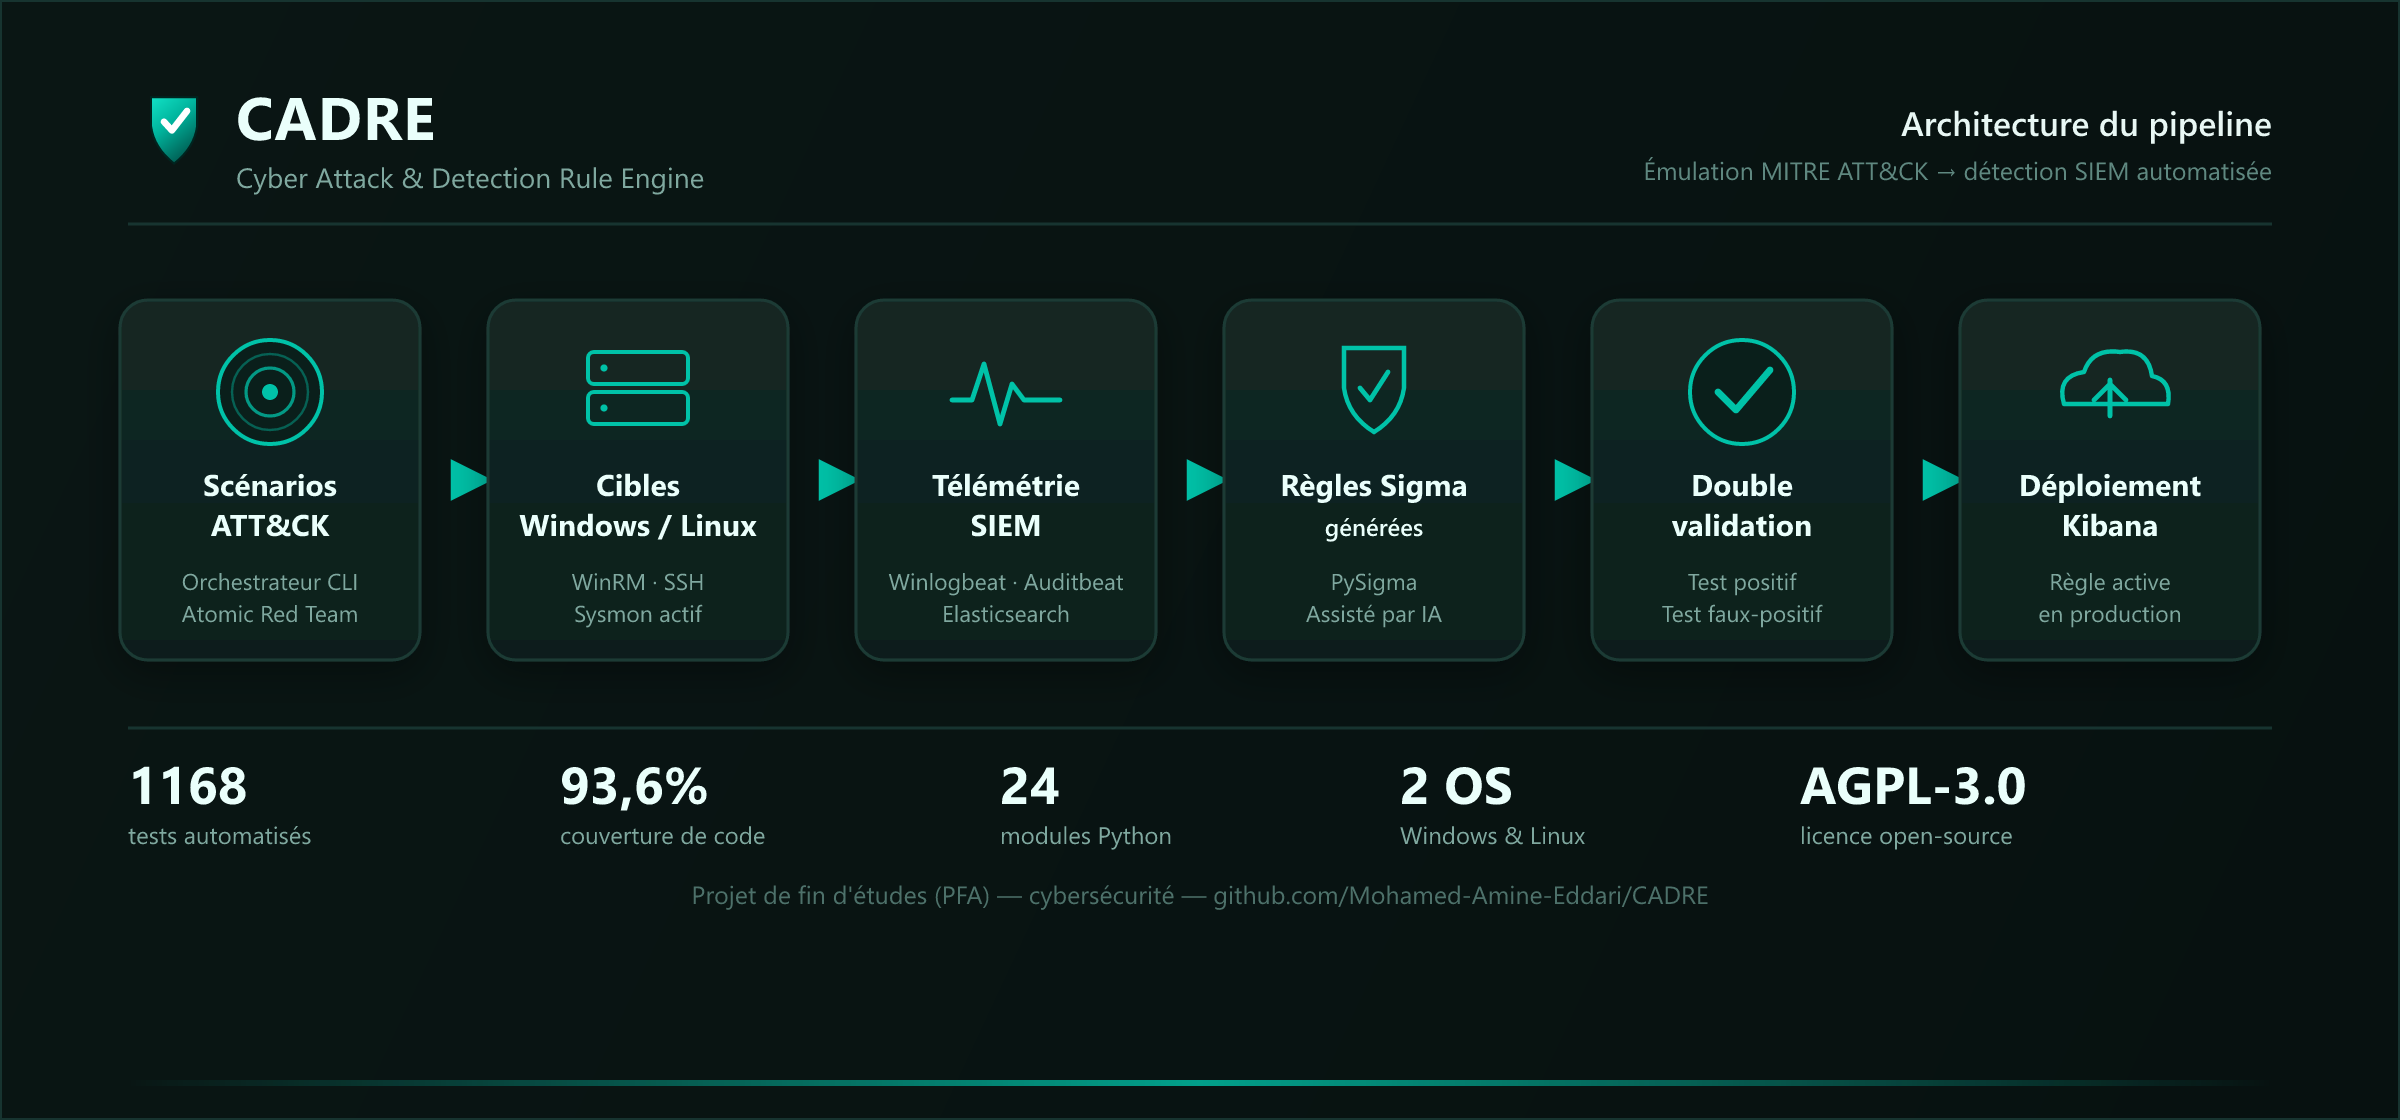
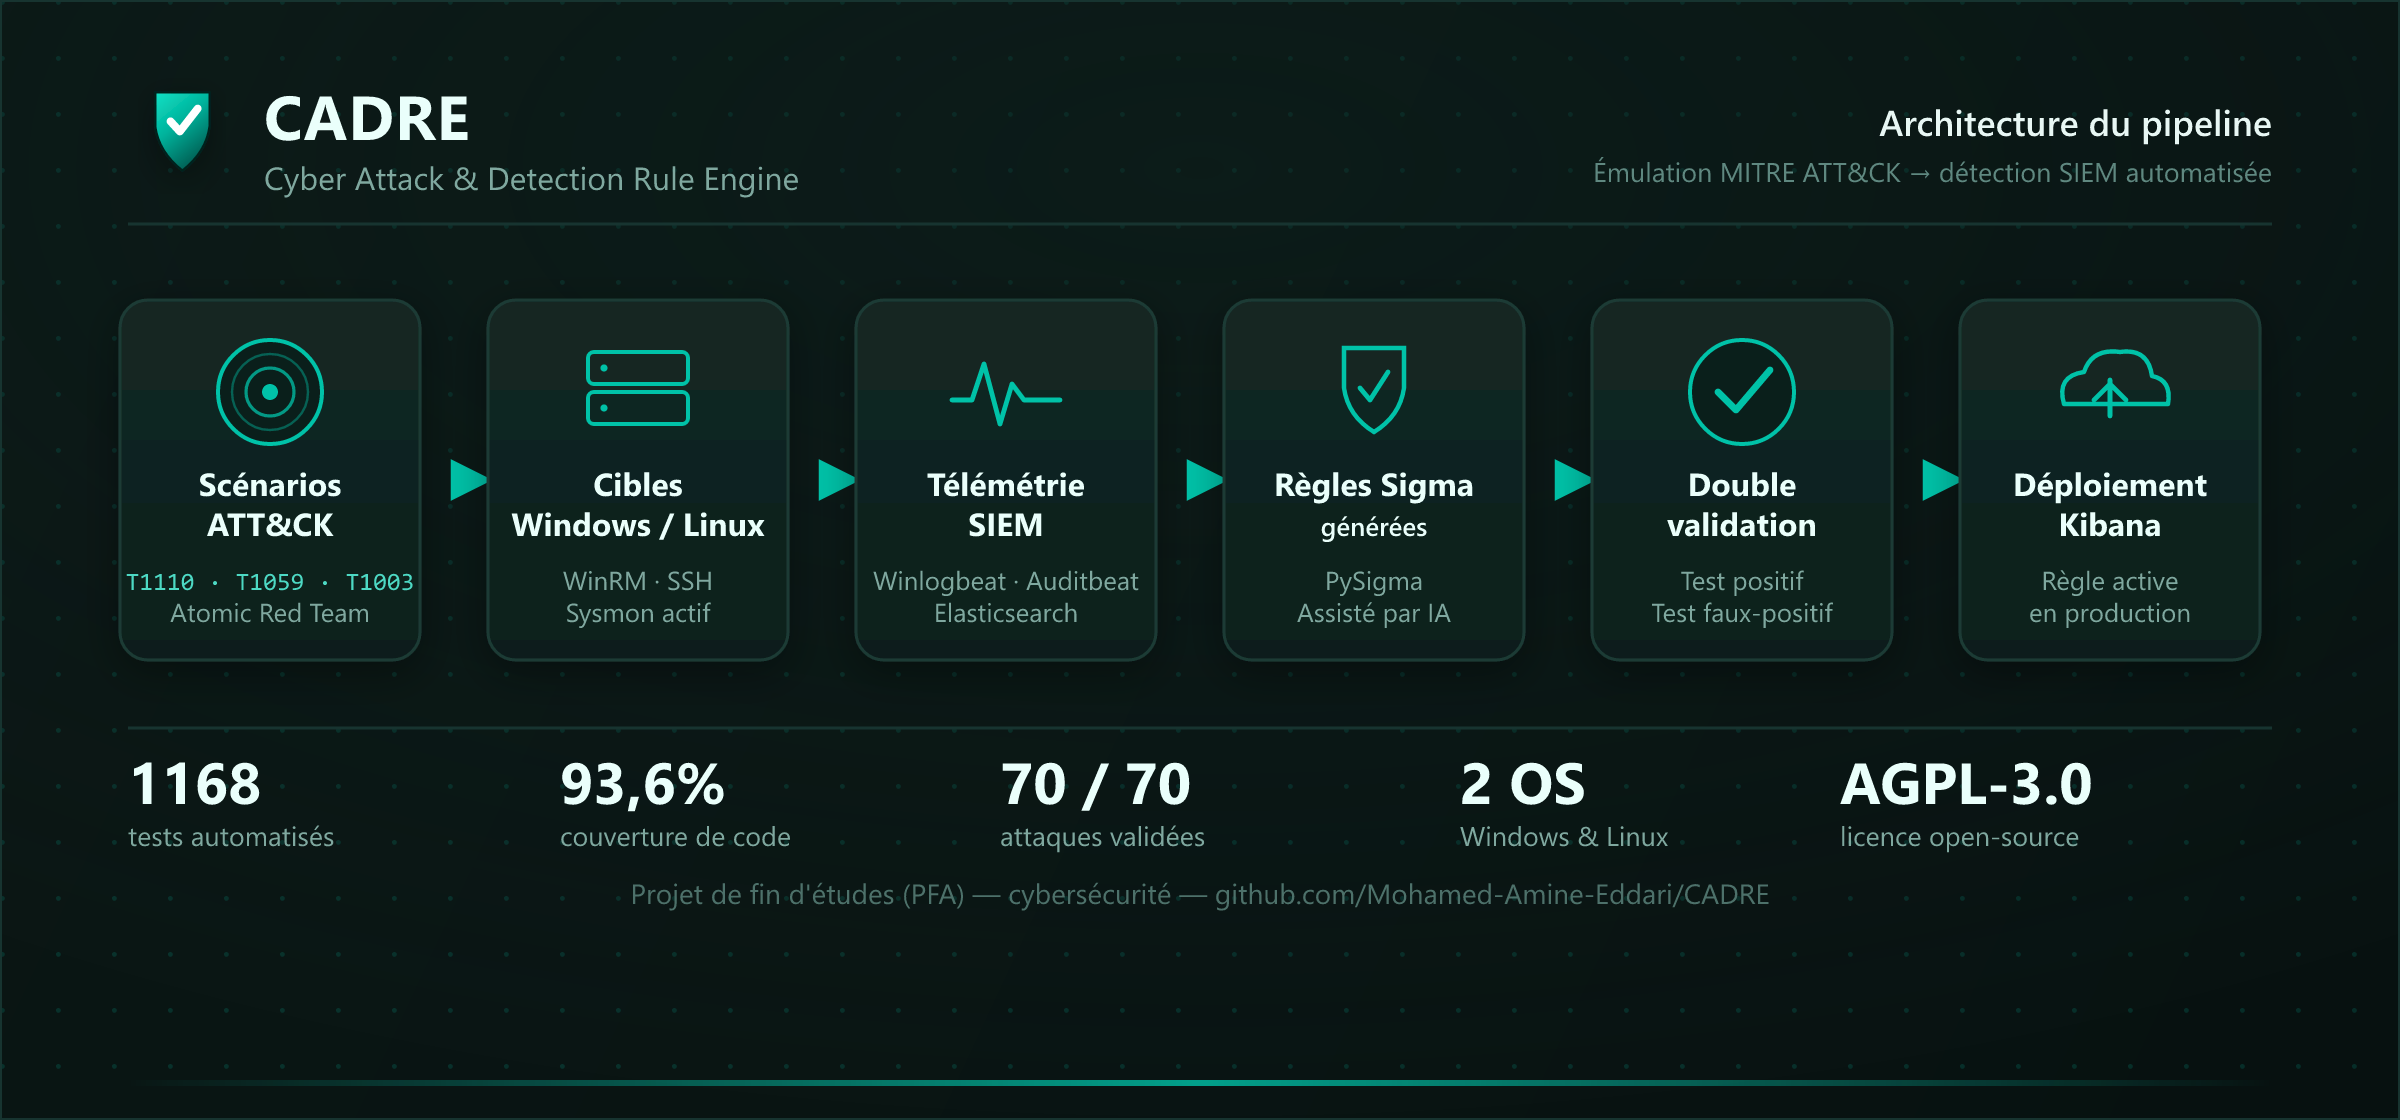
Ameliore les diagrammes et met a jour la doc de passation
Diagrammes : texture de fond, logo plus present, IDs de techniques
MITRE reelles, stat 70/70 plus parlante, et nouveau diagramme de
topologie systeme (connecteurs orthogonaux, sans le style pipeline).

ETAT_PROJET.md : documente les evenements du 12-13/09 (rebranding,
2 reecritures d'historique, correction du LICENSE hybride GPL/AGPL)
pour qu'un successeur comprenne l'etat du depot sans avoir a
reconstituer le contexte depuis les commits.

diff --git a/docs/ETAT_PROJET.md b/docs/ETAT_PROJET.md
@@ -6,7 +6,42 @@
 > `CHANGELOG.md` (long, chronologique) — l'état courant, ce qui est
 > vérifié, ce qui est bloqué, et par où continuer.
 >
-> **Dernière mise à jour** : 2026-09-11.
+> **Dernière mise à jour** : 2026-09-13.
+
+## 0. Mise à jour du 12-13/09 — passage en dépôt public
+
+Depuis la rédaction initiale de ce document (11/09), le dépôt a été
+préparé pour être rendu public :
+
+- **Identité Orange Cyberdefense retirée** du code (dashboard, PDF
+  générés, commentaires) — le stage reste mentionné en toutes lettres
+  dans le README et le rapport PFA, mais plus aucune couleur/logo de
+  l'entreprise n'est intégré au produit livré. Nouvel accent visuel
+  cyan/teal (`#00C2A8`).
+- **Historique Git réécrit à deux reprises supplémentaires** (en plus de
+  la purge du 11/09 déjà documentée en §3.2) :
+  1. `git checkout --orphan` : historique repassé à un seul commit propre
+     pour la mise en public (aucune trace des ~66 commits de développement
+     ni des artefacts de process — sauvegarde complète conservée en
+     privé, hors GitHub).
+  2. `git filter-repo --message-callback` (×2 passes) : suppression de la
+     ligne `Co-Authored-By: Claude ...` de tous les messages de commit
+     (exigence de transparence de l'assistant IA utilisé pendant le
+     développement — cf. `CHANGELOG.md` si le contexte complet est utile).
+  **Conséquence pour quiconque a un clone local antérieur au 13/09** :
+  les hash de commit ont changé à chaque réécriture. Un clone existant
+  doit être resynchronisé avec `git fetch origin && git reset --hard
+  origin/main` — un `git pull` normal échouera (historiques divergents).
+- **`LICENSE` corrigé** : le fichier contenait un texte hybride
+  (mélange GPL-3.0 / AGPL-3.0, probablement introduit lors d'une
+  génération assistée par IA plus tôt dans le projet), ce qui empêchait
+  GitHub de reconnaître la licence (affichait « Other »). Remplacé par
+  le texte officiel AGPL-3.0 verbatim (`https://www.gnu.org/licenses/agpl-3.0.txt`),
+  seule la ligne de copyright de la section « How to Apply » reste
+  personnalisée — comme prévu par le gabarit officiel lui-même.
+- **Nouveaux diagrammes** ajoutés dans `docs/_static/diagrams/`
+  (architecture pipeline, étapes de fonctionnement, topologie système)
+  pour le README et la communication externe (LinkedIn).
 
 ## 1. État vérifié à cette date
 
@@ -138,3 +173,7 @@ d'extension cohérentes avec l'architecture existante :
 - Étendre le catalogue à d'autres tactiques MITRE ATT&CK non encore
   couvertes, ou à d'autres OS (macOS).
 - Suivre `diskcache` (§ 3.3) jusqu'à publication d'un correctif.
+- Marquer un point de repère net pour la reprise (tag Git `v1.0.0` +
+  Release GitHub) une fois le dépôt effectivement public — utile pour
+  qu'un successeur sache exactement quel état correspond à la
+  soutenance/fin de stage, indépendamment des commits ultérieurs.
